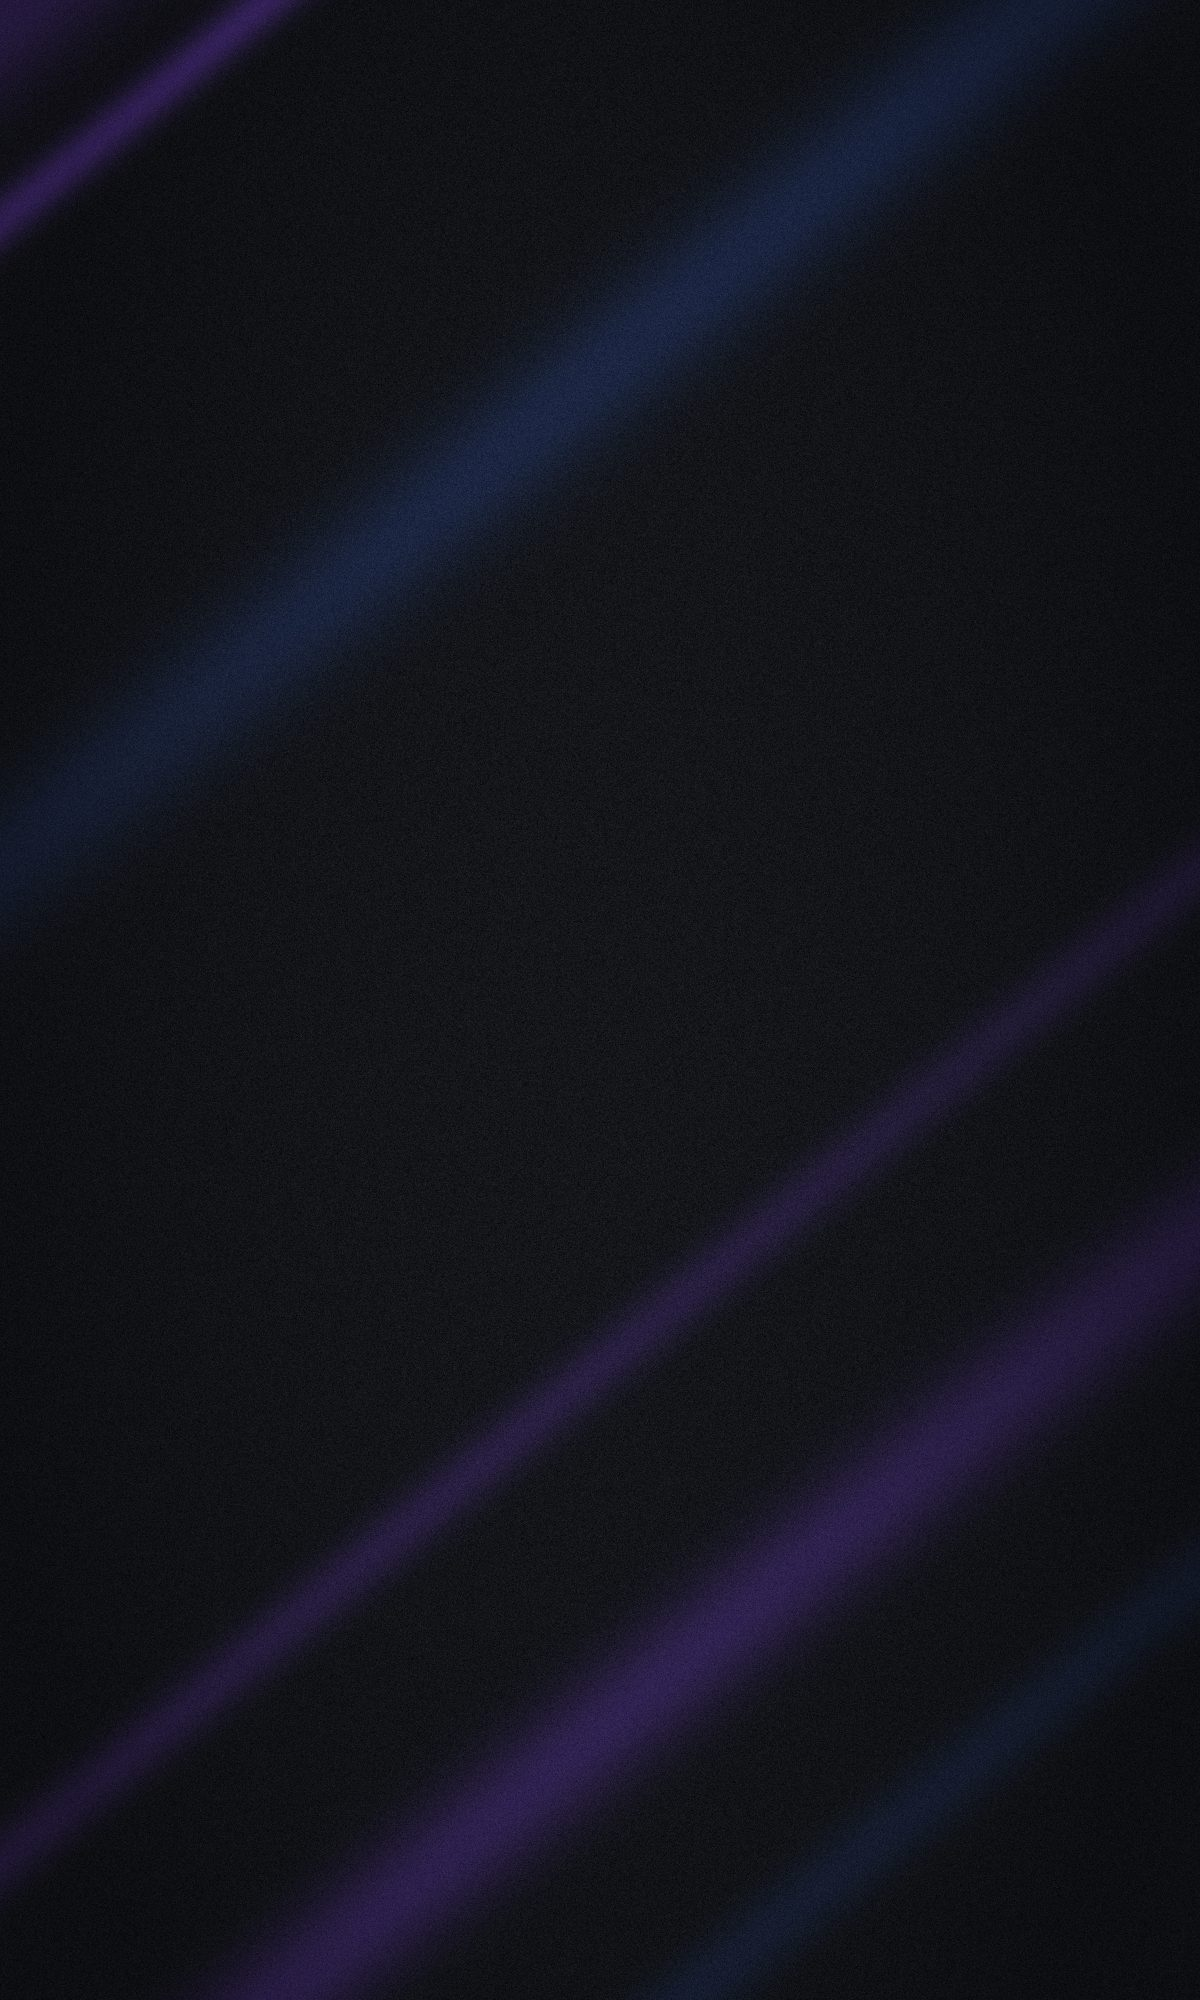
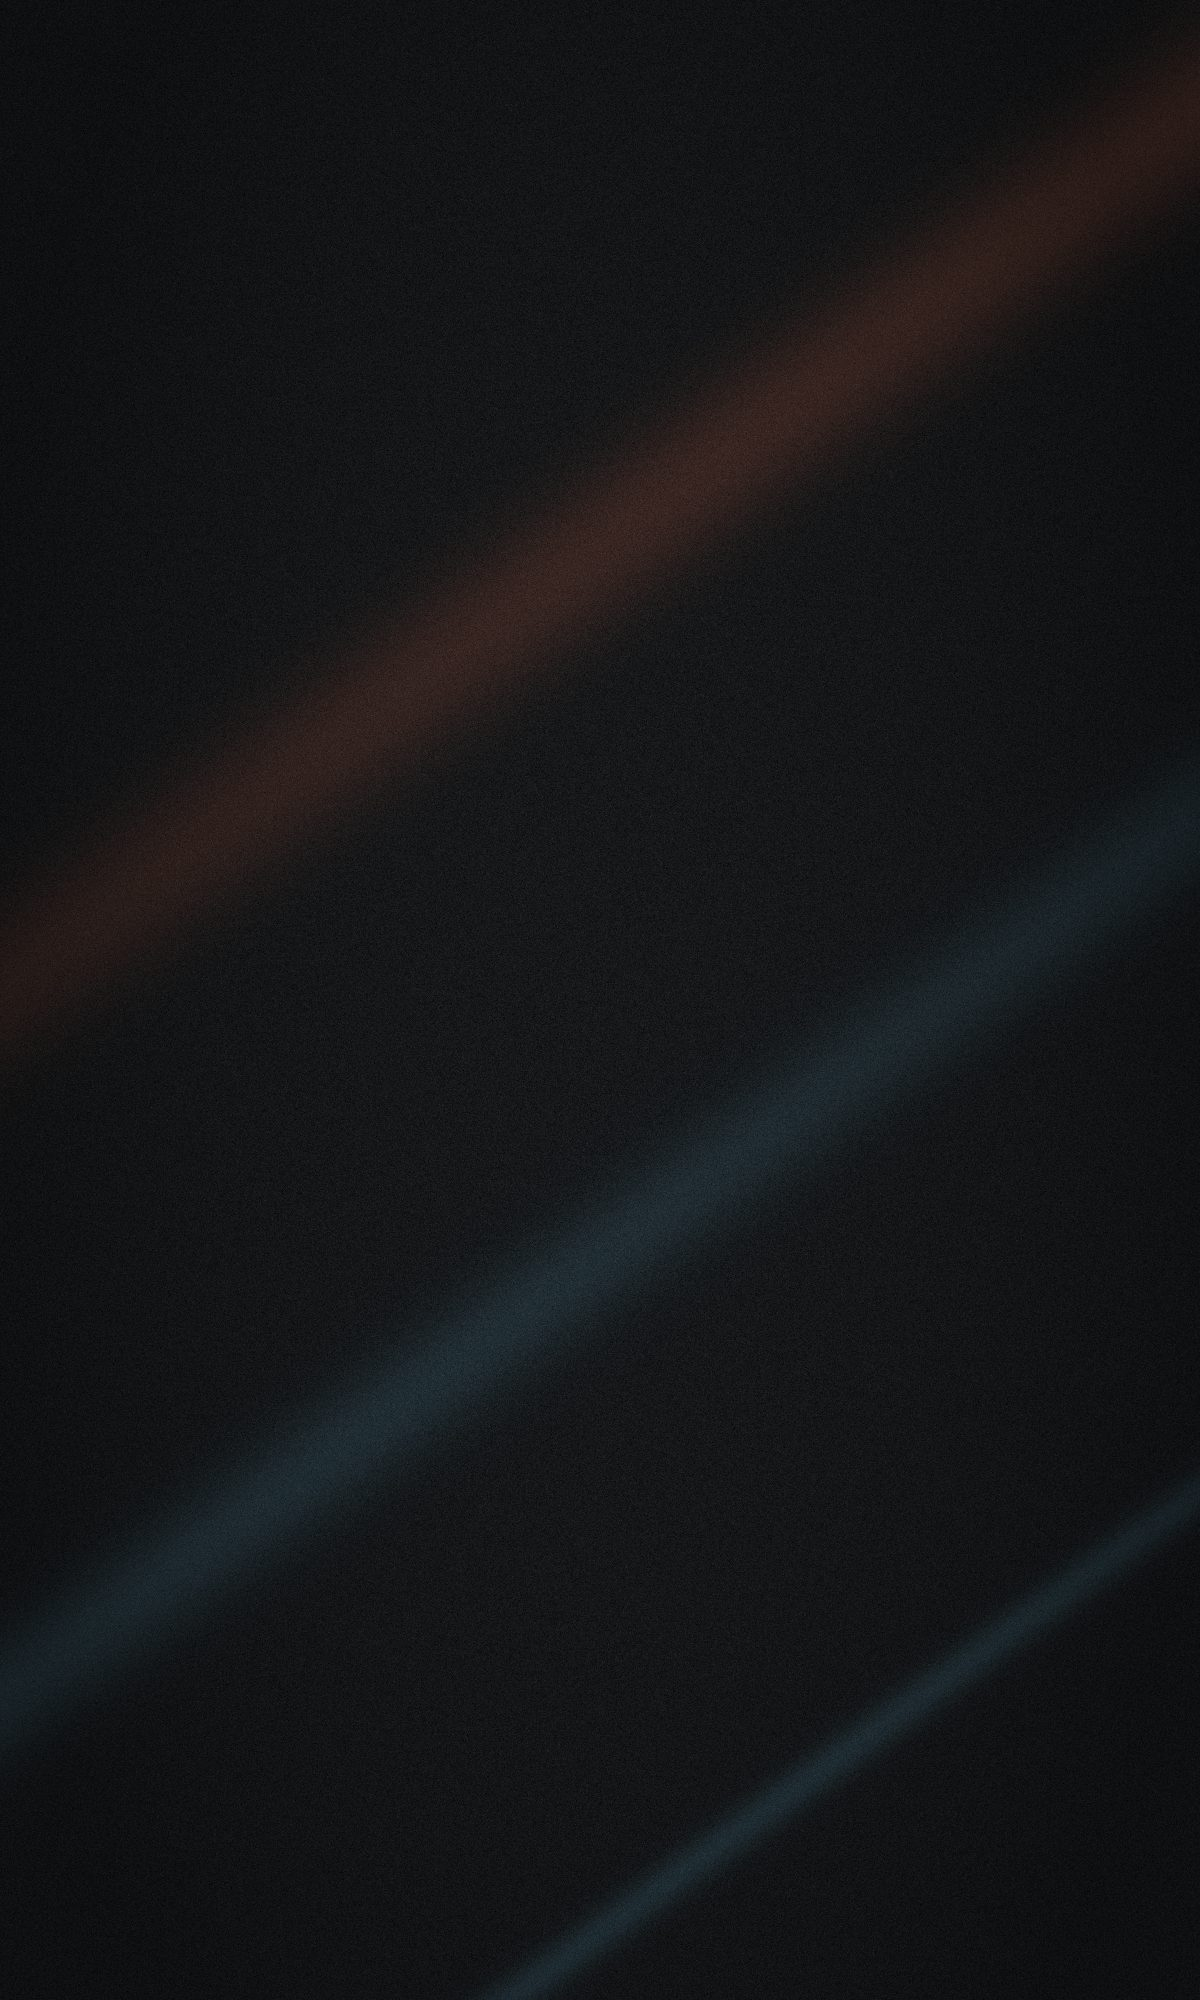
Agent Wiring

diff --git a/templates/slide.html b/templates/slide.html
@@ -25,9 +25,16 @@
     position:relative;
   }
 
-  /* ---- hook slide: dark, oversized, no body copy ---- */
-  .slide.hook{ background:{{ d.bg_alt }}; color:#fff; justify-content:center; position:relative }
+  /* ---- hook slide: LIGHT, oversized, no body copy ----
+     Slide one carries text somebody has to actually read, and long text on a
+     dark ground at thumbnail size is measurably harder work. A near-white slab
+     is also a bigger luminance step against a feed of mid-tone photography
+     than any saturated colour, so this is the stronger scroll-stopper too.
+     The exception is a photo hook, which still needs a dark scrim — see the
+     `.photo` variant below. */
+  .slide.hook{ background:{{ d.bg }}; color:{{ d.ink }}; justify-content:center; position:relative }
   {% if bg_image %}
+  .slide.hook{ background:{{ d.bg_alt }}; color:#fff }
   /* A photo from images/ behind the hook slide, under a scrim heavy enough
      that the headline stays readable at thumbnail size in the grid. */
   .slide.hook:before{
@@ -56,10 +63,20 @@
     color:{{ d.accent }};margin-bottom:24px;
   }
 
-  /* ---- cta slide: accent field ---- */
-  .slide.cta{ background:{{ d.accent }}; color:#fff; justify-content:center }
+  /* ---- close slide: the one inversion in the carousel ----
+     Was a full-bleed accent field. A whole slide of oxide is very loud, and
+     more importantly the inversion means something only if it is rare: one
+     dark frame at the end reads as the argument landing. Two would read as
+     noise, which is why nothing else in this template inverts. */
+  .slide.cta{
+    background:{{ d.bg_alt }}; color:#f2f1ee; justify-content:center;
+  }
+  .slide.cta:before{
+    content:"";position:absolute;left:0;top:0;bottom:0;width:14px;
+    background:{{ d.accent }};
+  }
   .slide.cta .headline{ font-size:72px;line-height:1.1;letter-spacing:-.025em;font-weight:700 }
-  .slide.cta .body{ font-size:38px;line-height:1.45;margin-top:36px;color:rgba(255,255,255,.9) }
+  .slide.cta .body{ font-size:38px;line-height:1.45;margin-top:36px;color:rgba(242,241,238,.72) }
 
   /* ---- body slides ---- */
   .kicker{
@@ -87,14 +104,21 @@
     opacity:{{ d.logo_opacity | default(0.92) }};
   }
   .foot .handle{ font-size:24px;font-weight:600;opacity:.75 }
-  .slide.hook .foot,.slide.cta .foot{ color:rgba(255,255,255,.65) }
-  .slide.body-slide .foot{ color:#9aa0a6 }
+  /* The hook is light now, so its footer takes the light-ground treatment;
+     only the close slide (and a photo hook) sit on dark. */
+  .slide.cta .foot{ color:rgba(242,241,238,.62) }
+  .slide.hook .foot,
+  .slide.body-slide .foot{ color:{{ d.ink_soft }} }
   .num{ font-variant-numeric:tabular-nums }
 
   .swipe{
     position:absolute;right:88px;bottom:150px;font-size:30px;font-weight:600;
-    color:rgba(255,255,255,.75);
+    color:{{ d.ink_soft }};
   }
+  {% if bg_image %}
+  .slide.hook .foot{ color:rgba(255,255,255,.65) }
+  .slide.hook .swipe{ color:rgba(255,255,255,.75) }
+  {% endif %}
 </style>
 </head>
 <body>

diff --git a/templates/reel_card.html b/templates/reel_card.html
@@ -25,7 +25,7 @@
   .bg{
     background:
       radial-gradient(120% 80% at 20% 12%, {{ d.accent }}55 0%, transparent 60%),
-      radial-gradient(100% 70% at 85% 88%, #1e3a8a55 0%, transparent 55%),
+      radial-gradient(100% 70% at 85% 88%, {{ d.bg_second | default('#2f5d6e') }}55 0%, transparent 55%),
       {{ d.bg_alt }};
   }
   {% endif %}
@@ -43,19 +43,21 @@
 
   .kicker{
     font-size:34px;font-weight:700;letter-spacing:.2em;text-transform:uppercase;
-    color:{{ d.accent }};margin-bottom:36px;
+    /* Oxide on near-black is about 3.5:1 — too low for text. brand.yml
+       carries a lifted variant for exactly this. */
+    color:{{ d.accent_on_dark | default(d.accent) }};margin-bottom:36px;
   }
   .line{
     font-size:{{ size }}px;line-height:1.12;letter-spacing:-.025em;font-weight:800;
     text-shadow:0 4px 40px rgba(0,0,0,.55);
   }
-  .accentbar{width:150px;height:12px;border-radius:99px;background:{{ d.accent }};margin-bottom:44px}
+  .accentbar{width:150px;height:12px;border-radius:99px;background:{{ d.accent_on_dark | default(d.accent) }};margin-bottom:44px}
 
   .progress{
     position:absolute;left:96px;right:96px;bottom:250px;
     height:8px;border-radius:99px;background:rgba(255,255,255,.18);overflow:hidden;
   }
-  .progress i{display:block;height:100%;border-radius:99px;background:{{ d.accent }};width:{{ pct }}%}
+  .progress i{display:block;height:100%;border-radius:99px;background:{{ d.accent_on_dark | default(d.accent) }};width:{{ pct }}%}
 
   .handle{
     position:absolute;left:96px;bottom:172px;

diff --git a/agent/generate.py b/agent/generate.py
@@ -4,9 +4,33 @@ from __future__ import annotations
 
 import json
 import re
+from pathlib import Path
 
 from . import llm
 from .schema import POST_SCHEMA, check_voice, validate
+
+# Both of these are additive and both fail soft. A missing hook library or an
+# empty metrics file must never stop a week from being generated.
+try:
+    from .metrics import brief_context
+except Exception:  # noqa: BLE001
+    def brief_context(max_examples: int = 5) -> str:  # type: ignore[misc]
+        return ""
+
+_HOOKS_FILE = Path(__file__).resolve().parent.parent / "prompts" / "hooks.md"
+
+
+def _hook_library() -> str:
+    """Opening structures written for this account's register.
+
+    Appended to the system prompt rather than pasted into system.md so the
+    two can be edited independently — the library changes as hooks are tested,
+    the strategist brief does not.
+    """
+    try:
+        return _HOOKS_FILE.read_text(encoding="utf-8")
+    except OSError:
+        return ""
 
 
 USER_TEMPLATE = """Write one Instagram post for this slot.
@@ -59,6 +83,15 @@ def generate_post(
     brief: str,
     recent_titles: list[str],
 ) -> dict:
+    # What actually happened to what we published. Returns an empty string
+    # until there are enough measured posts to say something true, so early
+    # runs are unchanged — feeding the model noise and calling it insight is
+    # worse than telling it nothing.
+    performance = brief_context()
+    full_brief = brief or "(no brief available this week — write evergreen)"
+    if performance:
+        full_brief = f"{full_brief}\n\n{performance}"
+
     user = USER_TEMPLATE.format(
         pillar_name=pillar.name,
         fmt=fmt,
@@ -66,10 +99,14 @@ def generate_post(
         keywords=", ".join(pillar.keywords),
         long_tail="; ".join(pillar.long_tail),
         hashtags=" ".join(pillar.hashtags),
-        brief=brief or "(no brief available this week — write evergreen)",
+        brief=full_brief,
         recent="\n".join(f"- {t}" for t in recent_titles) or "(nothing yet)",
         schema=json.dumps(POST_SCHEMA, indent=2),
     )
+
+    hooks = _hook_library()
+    if hooks:
+        system_prompt = f"{system_prompt}\n\n---\n\n{hooks}"
 
     messages = [{"role": "user", "content": user}]
     post: dict = {}

diff --git a/agent/video.py b/agent/video.py
@@ -85,14 +85,23 @@ def beat_durations(beats: list[dict]) -> list[float]:
 def _background_prompt(post: dict, brand) -> str:
     pillar = brand.pillars.get(post.get("pillar", ""))
     topic = post.get("primary_keyword") or (pillar.name if pillar else "marketing")
+    # Colours follow brand.yml rather than being hardcoded, so a palette
+    # change carries through to AI backgrounds too. The old prompt asked for
+    # violet and midnight blue, which belonged to the previous accent.
+    d = getattr(brand, "design", {}) or {}
+    accent = d.get("accent") or "#b0492a"
+    base = d.get("bg_alt") or "#16181a"
     return (
         "Abstract editorial background image for a premium business social video. "
         f"Theme: {topic}. "
-        "Dark near-black base with deep violet and midnight blue light, soft "
-        "gradients, subtle geometric structure, gentle film grain. Cinematic, "
-        "restrained, expensive-looking. Vertical 9:16 composition with the centre "
-        "kept visually calm and uncluttered so large white text can sit on top. "
-        "Absolutely no text, no letters, no numbers, no logos, no people, no faces."
+        f"Dark near-black base around {base}, lit with oxide and burnt-orange "
+        f"tones around {accent} and cool slate shadow, soft gradients, subtle "
+        "geometric structure, gentle film grain. The register is heavy industry "
+        "rather than software — furnace light, weathered metal, warm rust — "
+        "cinematic, restrained, expensive-looking. Vertical 9:16 composition "
+        "with the centre kept visually calm and uncluttered so large white text "
+        "can sit on top. Absolutely no text, no letters, no numbers, no logos, "
+        "no people, no faces."
     )
 
 

diff --git a/agent/render.py b/agent/render.py
@@ -53,8 +53,11 @@ def render_carousel(post: dict, brand, out_dir: Path, index: int = 0) -> list[Pa
 
     hook_bg = assets.pick_image(post.get("pillar", ""), index) if PHOTO_HOOK else None
 
-    # Hook and CTA slides are dark, body slides are light, so each needs the
-    # opposite mark. Encoded once here rather than in the template.
+    # Ground per slide, and therefore which mark reads on it. The hook slide
+    # moved from dark to light (see templates/slide.html), so it now takes the
+    # dark mark like the body slides; only the closing slide is inverted. A
+    # photo hook is the exception — it keeps its dark scrim, so it keeps the
+    # light mark.
     show_logo = brand.design.get("show_logo", True)
     marks = {
         k: (assets.data_uri(assets.logo(k)) if show_logo else "")
@@ -83,7 +86,10 @@ def render_carousel(post: dict, brand, out_dir: Path, index: int = 0) -> list[Pa
                 index=i + 1,
                 total=len(slides),
                 bg_image=(assets.data_uri(hook_bg) if i == 0 else ""),
-                logo=marks[{"hook": "light", "cta": "white"}.get(_slide_kind(i, len(slides)), "dark")],
+                logo=marks[
+                    "light" if (i == 0 and hook_bg) else
+                    {"cta": "white"}.get(_slide_kind(i, len(slides)), "dark")
+                ],
                 d=d,
                 W=d["slide_width"],
                 H=d["slide_height"],

diff --git a/tools/make_backgrounds.py b/tools/make_backgrounds.py
@@ -186,8 +186,12 @@ def main() -> int:
     brand = config.load_brand()
     d = brand.design
     base = _hex(d.get("bg_alt", "#14161a"))[None, None, :] * np.ones((H, W, 1))
-    accent = _hex(d.get("accent", "#7c3aed"))
-    second = _hex("#1e3a8a")  # midnight blue, to stop it reading as one-note
+    accent = _hex(d.get("accent", "#b0492a"))
+    # A cool counterpoint stops the set reading as one-note. It was hardcoded
+    # midnight blue, chosen against the old violet accent; with oxide, slate
+    # is the pairing that works. Override it in brand.yml with
+    # `design.bg_second` if you want a different second colour.
+    second = _hex(d.get("bg_second") or "#2f5d6e")
 
     out = Path(args.out)
     out.mkdir(parents=True, exist_ok=True)

diff --git a/prompts/system.md b/prompts/system.md
@@ -121,15 +121,105 @@ or the text will overflow and the post will be unusable:
 
 ---
 
+## CAPTIONS — the caption ADDS, it never summarises
+
+The slides or the Reel already made the argument. Someone reading the caption
+has just watched it. Restating it wastes the only space you have left, and
+duplicates text a search engine has already indexed from the alt text.
+
+**The caption must carry something the visual does not.** Pick one:
+
+- the story behind the claim — where you first saw it fail
+- the caveat: when the rule you just gave does not apply
+- the counterargument you find hardest to dismiss
+- what you would do differently now
+- the uncomfortable second-order consequence nobody mentions
+- what it costs to actually do the thing
+
+**Never** open a caption by naming the post's topic. Never write "in this
+carousel" or "swipe to see". Never list the slides back.
+
+### Length
+
+**Six to ten short lines. Under 700 characters before the tags.** The old habit
+of 1,500-character captions is dead weight — people decide in the first line
+and skim the rest. Write short paragraphs of one or two sentences with blank
+lines between them.
+
+### Structure
+
+```
+[Line 1 — the hook. Under 125 characters. The primary keyword phrased the way
+a person would actually say it. This is the only line most people read.]
+
+[2–5 short paragraphs carrying the ADDITIONAL material — the story, the
+caveat, the cost. Not a summary of the slides.]
+
+[One line of point of view. What you actually think, including when it is
+unfashionable. This is the line that makes it yours.]
+
+[A call to action written for forwarding, not for liking. "Send this to
+whoever…" beats "what do you think?" every time.]
+
+[keyword one, keyword two, keyword three, keyword four]
+
+#tag #tag #tag
+```
+
+### The call to action — one hard rule
+
+**Never ask anyone to comment a keyword.** No "comment AUDIT and I'll send
+it", no "type YES for the link", no gated offer of any kind. There is no
+automation behind it, so every such comment is a promise the account cannot
+keep, made in public, to the most engaged reader the post produced.
+
+Where there is something to link to, say so plainly and put the URL in the
+caption — "the long version is on my site" — with no gate and no keyword.
+Otherwise the CTA is a forward: send this to the person who needs it.
+
+This rule comes out when the comment-to-DM system is actually built, and not
+before.
+
+### The bracketed keyword line
+
+End with a single line of three to five lowercase keyword phrases inside
+square brackets, comma separated:
+
+```
+[b2b branding, industrial marketing, brand governance, manufacturing]
+```
+
+These are **not** hashtags — they are not clickable and will not surface you in
+a tag search. They exist because captions are indexed by Google and Bing, and
+because they read cleaner than a wall of hashes. Use the pillar's keywords and
+the post's primary keyword. Never more than five. No hash symbols inside the
+brackets.
+
+### Hashtags
+
+**Exactly three**, on their own line after the bracketed keywords. Instagram
+caps posts at five and treats them as classification rather than reach, so
+three accurate ones do the whole job. Never tag something the post is not
+about — mis-tagging actively harms recommendation eligibility.
+
+---
+
 ## OUTPUT
 
 Return **only** a single JSON object matching the schema you are given. No
 prose before or after it, no markdown code fences. Every field is required.
 
+Put the bracketed keyword line at the end of the `caption` field. Put the three
+hashtags in the `hashtags` array, not in the caption — the publisher appends
+them.
+
 Before you write, do the thinking silently:
+
 - What is the one specific claim this post makes? If you cannot state it in a
   sentence, the idea is not sharp enough — sharpen it before writing.
 - What is the mechanism, number, or named example that backs it up?
+- **What does the caption say that the slides do not?** If you cannot answer
+  that in a sentence, the caption is a summary and must be rewritten.
 - What would make someone forward this to a colleague rather than just like it?
 - What is the failure mode — the reason this post might land badly or read as
-  generic? Name it honestly in the `failure_mode` field so it can be checked.
+  generic? Name it honestly in the `failure_mode` field.
